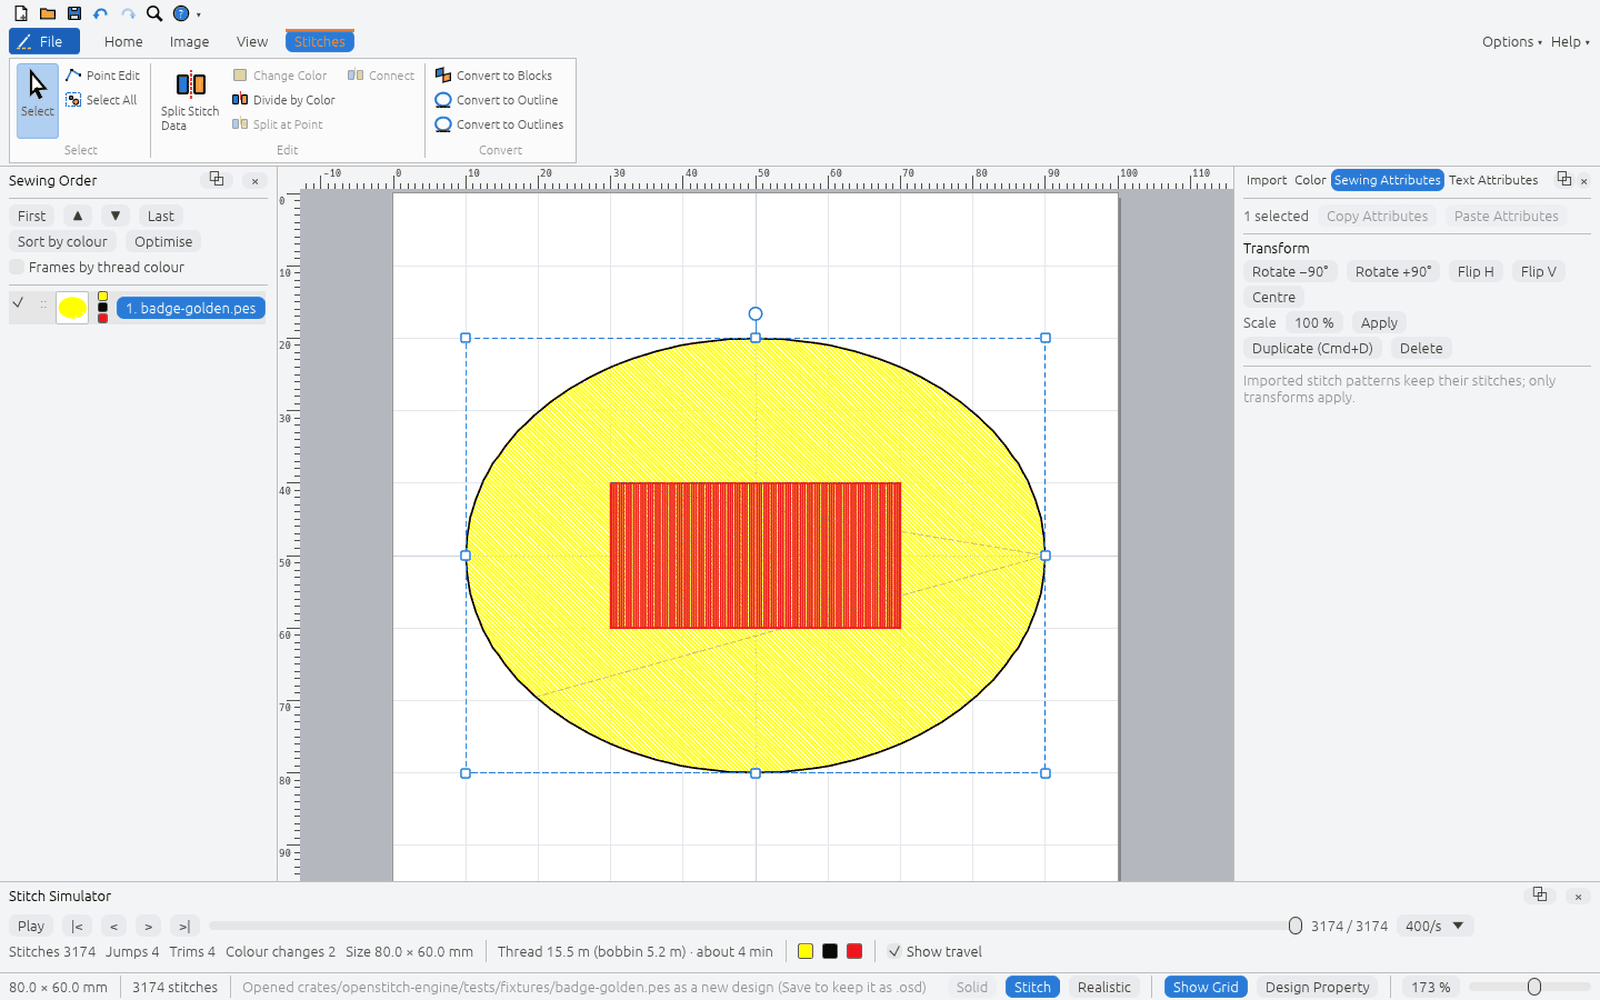
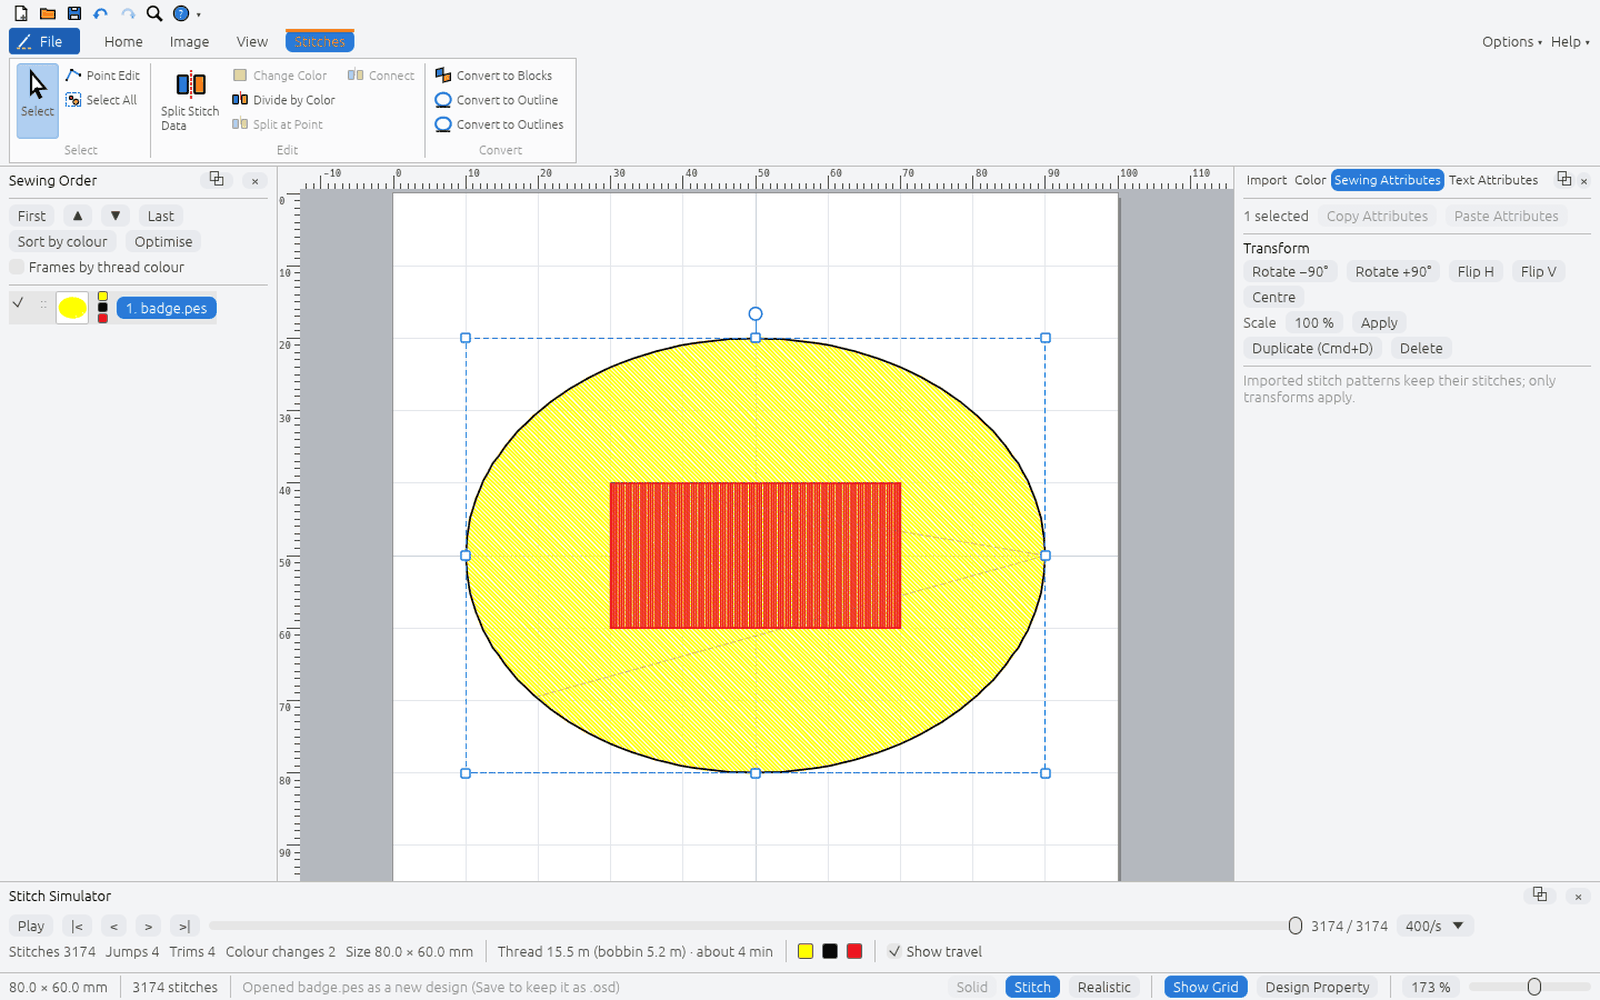
tools/screenshots.py: regenerate the editor screenshots without local paths

diff --git a/tools/screenshots.py b/tools/screenshots.py
@@ -1,0 +1,133 @@
+#!/usr/bin/env python3
+"""Regenerates the editor screenshots in docs/images and docs/images/readme with the real app.
+
+    cargo build -p openstitch-app -p stitchtool
+    python3 tools/screenshots.py [--only NAME,NAME]
+
+Each scene runs `openstitch --screenshot` (1440x900 window) on a sample design built from
+examples/ by `stitchtool exec`. The app runs inside a temporary folder and is given relative
+paths, so the status bar never shows a local path. Images are downscaled and quantised to 256
+colours (128 for the README copies): docs/images at 1600 px wide, docs/images/readme at
+1280 px. A stand-in home folder keeps the user's folder names out of the images. Needs Pillow; macOS
+renders with Metal (the documentation images are made there).
+"""
+
+import argparse
+import json
+import os
+import shutil
+import subprocess
+import sys
+import tempfile
+from pathlib import Path
+
+from PIL import Image
+
+ROOT = Path(__file__).resolve().parent.parent
+BIN = ROOT / "target" / "debug"
+FIXTURES = ROOT / "crates" / "openstitch-formats" / "tests" / "fixtures"
+
+# name -> (arguments, output files with their widths)
+SCENES = {
+    "overview": (["--demo", "--select", "2"],
+                 [("docs/images/rust-editor-overview.png", 1600), ("docs/images/readme/editor.png", 1280)]),
+    "appmenu": (["--demo", "--show", "appmenu"], [("docs/images/rust-editor-appmenu.png", 1600)]),
+    "view-dark": (["--demo", "--ribbon", "view", "--pane", "color", "--select", "2", "--theme", "dark"],
+                  [("docs/images/rust-editor-view-dark.png", 1600)]),
+    "stitches-tab": (["badge.pes", "--select", "1", "--ribbon", "stitches"],
+                     [("docs/images/rust-editor-stitches-tab.png", 1600)]),
+    "floating": (["--demo", "--tool", "pen", "--show", "floating"],
+                 [("docs/images/rust-editor-floating-panes.png", 1600)]),
+    "realistic": (["--demo", "--show", "realistic", "--ribbon", "view", "--zoom", "1.4"],
+                  [("docs/images/readme/realistic-view.png", 1280)]),
+    "simulator": (["--demo", "--simulate", "0.55", "--ribbon", "view"],
+                  [("docs/images/readme/stitch-simulator.png", 1280)]),
+    "drawing": (["drawing.osd", "--select", "1"], [("docs/images/readme/drawing.png", 1280)]),
+    "monogram": (["monograms.osd", "--select", "1", "--show", "monogram"],
+                 [("docs/images/readme/monogram.png", 1280)]),
+    "auto-punch": (["--image", "badge.png", "--convert", "autopunch", "--ribbon", "image"],
+                   [("docs/images/readme/auto-punch.png", 1280)]),
+    "design-database": (["--database", "home/Embroidery", "--db-view", "large"],
+                        [("docs/images/readme/design-database.png", 1280)]),
+    "stitch-creator": (["user-patterns.osd", "--pattern", "tulip.json"],
+                       [("docs/images/readme/stitch-creator.png", 1280)]),
+}
+
+
+def run(args, cwd, env=None):
+    subprocess.run(args, cwd=cwd, check=True, env=env)
+
+
+def app_env(work):
+    """A stand-in home folder, so the Design Database tree and the pattern library show
+    neutral names instead of the user's own folders."""
+    env = dict(os.environ)
+    home = work / "home"
+    env.update({"HOME": str(home), "APPDATA": str(home), "XDG_CONFIG_HOME": str(home / ".config"),
+                "XDG_DATA_HOME": str(home / ".local" / "share"), "OPENSTITCH_PATTERNS": "patterns"})
+    return env
+
+
+def build_project(work, example, name):
+    """Runs an example script and saves its design as NAME.osd in `work`."""
+    steps = json.loads((ROOT / "examples" / example).read_text())
+    steps = [s for s in steps if s.get("command") != "project.save"]
+    steps.append({"command": "project.save", "params": {"path": str(work / f"{name}.osd")}})
+    script = work / f"{name}.json"
+    script.write_text(json.dumps(steps))
+    run([str(BIN / "stitchtool"), "exec", str(script)], cwd=work)
+
+
+def prepare(work):
+    for example, name in [("drawing.json", "drawing"), ("monograms.json", "monograms"),
+                          ("user-patterns.json", "user-patterns")]:
+        build_project(work, example, name)
+    patterns = json.loads((ROOT / "examples" / "user-patterns.json").read_text())
+    tulip = next(s["params"]["pattern"] for s in patterns
+                 if s.get("command") == "pattern.define" and s["params"]["pattern"]["id"] == "tulip")
+    (work / "tulip.json").write_text(json.dumps(tulip))
+    shutil.copy(ROOT / "examples" / "digitize" / "badge.png", work / "badge.png")
+    shutil.copy(ROOT / "crates" / "openstitch-engine" / "tests" / "fixtures" / "badge-golden.pes",
+                work / "badge.pes")
+    (work / "patterns").mkdir()
+    samples = work / "home" / "Embroidery"
+    samples.mkdir(parents=True)
+    for sub in ["Badges", "Flowers", "Lettering"]:
+        (samples / sub).mkdir()
+    for f in ["oracle.pes", "oracle.dst", "oracle.jef", "oracle.exp", "oracle.pec", "oracle.xxx",
+              "oracle.sew", "oracle.pcs", "oracle_v1.pes"]:
+        shutil.copy(FIXTURES / f, samples / f)
+    shutil.copy(work / "drawing.osd", samples / "drawing.osd")
+    shutil.copy(work / "monograms.osd", samples / "monograms.osd")
+
+
+def shrink(src, dst, width):
+    """Downscales and quantises; README copies stay under about 200 KB."""
+    im = Image.open(src).convert("RGB")
+    im = im.resize((width, round(im.height * width / im.width)), Image.LANCZOS)
+    colors = 256 if width > 1280 else 128
+    im = im.quantize(colors=colors, method=Image.Quantize.MEDIANCUT, dither=Image.Dither.NONE)
+    dst.parent.mkdir(parents=True, exist_ok=True)
+    im.save(dst, optimize=True)
+
+
+def main():
+    p = argparse.ArgumentParser()
+    p.add_argument("--only", help="comma-separated scene names")
+    a = p.parse_args()
+    names = a.only.split(",") if a.only else list(SCENES)
+    with tempfile.TemporaryDirectory() as tmp:
+        work = Path(tmp)
+        prepare(work)
+        for name in names:
+            args, outputs = SCENES[name]
+            shot = work / f"{name}.png"
+            run([str(BIN / "openstitch"), *args, "--size", "1440x900", "--screenshot", str(shot)],
+                cwd=work, env=app_env(work))
+            for out, width in outputs:
+                shrink(shot, ROOT / out, width)
+                print(f"{out}: {(ROOT / out).stat().st_size // 1024} KB")
+
+
+if __name__ == "__main__":
+    sys.exit(main())

diff --git a/docs/ARCHITECTURE.md b/docs/ARCHITECTURE.md
@@ -568,7 +568,9 @@ openstitch_app::editor (lib, no egui, unit-tested)
   real canvas, tool, panel and shortcut code runs; `--screenshot out.png` captures the frame
   after the script (`--demo`, `--select`, `--simulate`, `--zoom`, `--size` set the scene;
   `--ribbon TAB`, `--pane TAB`, `--theme`, `--show appmenu|property|shortcuts|floating` set the
-  chrome; screenshots ignore the saved window preferences). The
+  chrome; screenshots ignore the saved window preferences). `python3 tools/screenshots.py`
+  rebuilds the editor screenshots from examples/ in a temporary folder with a stand-in home
+  folder, so no local path shows, and downscales and quantises them. The
   images in `docs/images/rust-editor-*.png` are made this way on macOS (Metal).
 
 ## Decisions
